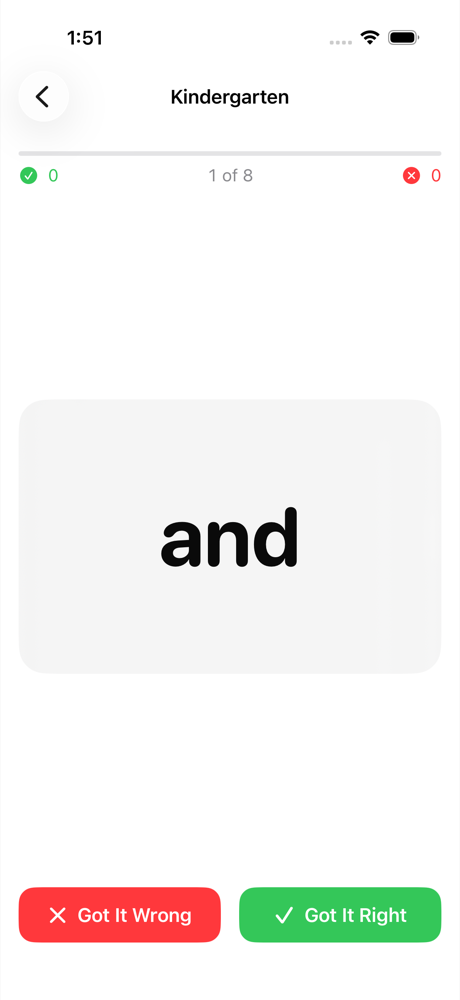
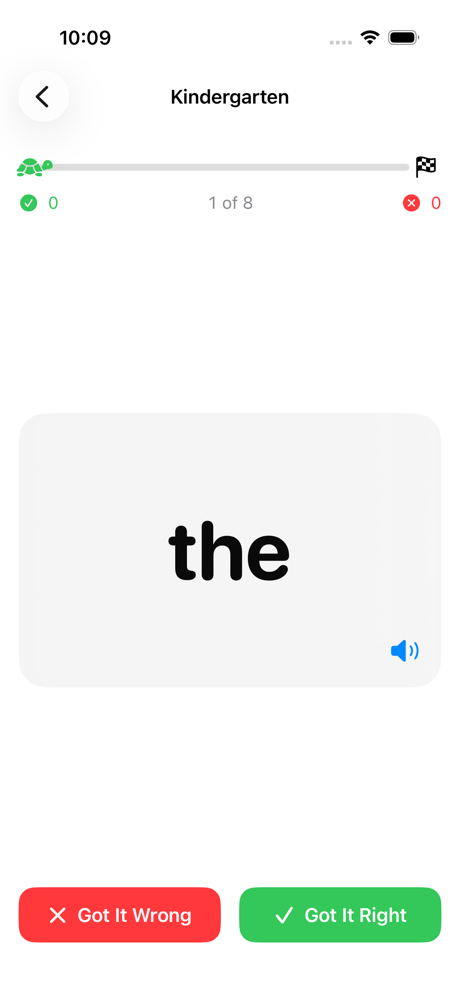
Show SightWord Practice 1.2: new screenshots, speech and Listen & Pick
Four screenshots instead of three, adding Listen & Pick; the page and an
FAQ cover the speaker, and What's New gets its 1.2 section. Held on this
branch until 1.2 is live on the App Store.

diff --git a/public/sightwords/index.html b/public/sightwords/index.html
@@ -88,9 +88,9 @@
     border-bottom: none;
   }
 
-  /* Three phone screenshots, side by side where there is room and wrapping
-     where there is not. Width-capped rather than height-capped so they stay
-     the same size as each other whatever the aspect ratio of a future shot. */
+  /* Four phone screenshots: one row where there is room, two by two on a
+     phone. Width-capped rather than height-capped so they stay the same size
+     as each other whatever the aspect ratio of a future shot. */
   .shots {
     display: flex;
     flex-wrap: wrap;
@@ -100,8 +100,8 @@
   }
   .shots figure {
     margin: 0;
-    flex: 0 1 200px;
-    max-width: 200px;
+    flex: 0 1 150px;
+    max-width: 150px;
   }
   .shots img {
     width: 100%;
@@ -233,9 +233,15 @@
       </figure>
       <figure>
         <img src="/sightwords/img/practice.png" width="460" height="1000"
-             alt="A flash card showing the word and, with Got It Wrong and Got It Right buttons underneath."
+             alt="A flash card showing the word the, with a speaker button on the card and Got It Wrong and Got It Right buttons underneath."
              loading="lazy" decoding="async">
         <figcaption>One word at a time. You tap how it went.</figcaption>
+      </figure>
+      <figure>
+        <img src="/sightwords/img/listen-and-pick.png" width="460" height="1000"
+             alt="Listen &amp; Pick: a Hear It Again button above four word tiles, like, look, go and the."
+             loading="lazy" decoding="async">
+        <figcaption>Listen &amp; Pick: hear a word, find it among four.</figcaption>
       </figure>
       <figure>
         <img src="/sightwords/img/session-recap.png" width="460" height="1000"
@@ -271,6 +277,8 @@
       <li>Each word quietly remembers how it has gone, so you can see what is sticking. There are no points, badges or streaks.</li>
     </ul>
 
+    <p><strong>Hearing the words.</strong> Tap the speaker on a card and the word is said out loud. Or play <em>Listen &amp; Pick</em> from a list: the app says a word and your child finds it among four. Finding it on the first tap counts as right, and anything else as wrong, in the same record the flash cards keep. Settings lets you choose the voice, and points to the better ones iOS can download for free.</p>
+
     <h2>Common questions</h2>
 
     <p><strong>Will importing overwrite the list I already have?</strong> No. If a list arrives with a name you already use, the app offers to merge the two and keeps the practice history on every word you already had. Words you already have are skipped rather than reset.</p>
@@ -280,6 +288,8 @@
     <p><strong>Can I edit or rename a list later?</strong> Yes — the name, the words, all of it, whenever the list changes.</p>
 
     <p><strong>My child finds the movement distracting.</strong> Turn on Reduce Motion in iOS Settings under Accessibility → Motion and the cards cross-fade instead of sliding, and celebrations are turned off. You can also set the card animation to None in the app's own Settings, and turn celebrating off there.</p>
+
+    <p><strong>The speaker gives the answer away.</strong> Turn off <em>Speaker Button on Cards</em> in the app's Settings. Listen &amp; Pick still says its words, because that is the game.</p>
 
     <p><strong>Does it collect anything about my child?</strong> No. No accounts, no ads, no analytics, nothing sent anywhere. The <a href="/privacy">privacy policy</a> says so in more detail, and says what it would say if that ever changed.</p>
 

diff --git a/public/sightwords/whats-new.html b/public/sightwords/whats-new.html
@@ -144,6 +144,19 @@
 
     <p>What changed in each version, newest first. Your iPhone or iPad usually updates the app on its own; to check which version you have, open the app and look at the bottom of Settings.</p>
 
+    <section class="release" id="1.2">
+      <h2>Version 1.2</h2>
+
+      <ul>
+        <li><strong>Hear the word.</strong> Tap the speaker on a flash card and the word is said out loud. If it gives the answer away, turn off <em>Speaker Button on Cards</em> in Settings.</li>
+        <li><strong>Listen &amp; Pick.</strong> A new game: your child hears a word and finds it among four. A wrong tile turns red and the word is said again. Finding it on the first tap counts as right, and anything else as wrong, in the same record the flash cards keep.</li>
+        <li><strong>The practice trail.</strong> A path across the top of practice shows how far through the session you are, and how each word went.</li>
+        <li><strong>A more natural voice.</strong> Choose the voice that says the words in Settings, which also shows how to download a better one from iOS for free.</li>
+        <li><strong>Balloons and Sparkles.</strong> Two new ways to celebrate a good session, alongside confetti and fireworks — or let Surprise Me pick.</li>
+        <li><strong>What's new, in the app.</strong> After an update the app shows what changed, once. Settings shows it again.</li>
+      </ul>
+    </section>
+
     <section class="release" id="1.1">
       <h2>Version 1.1</h2>
 
